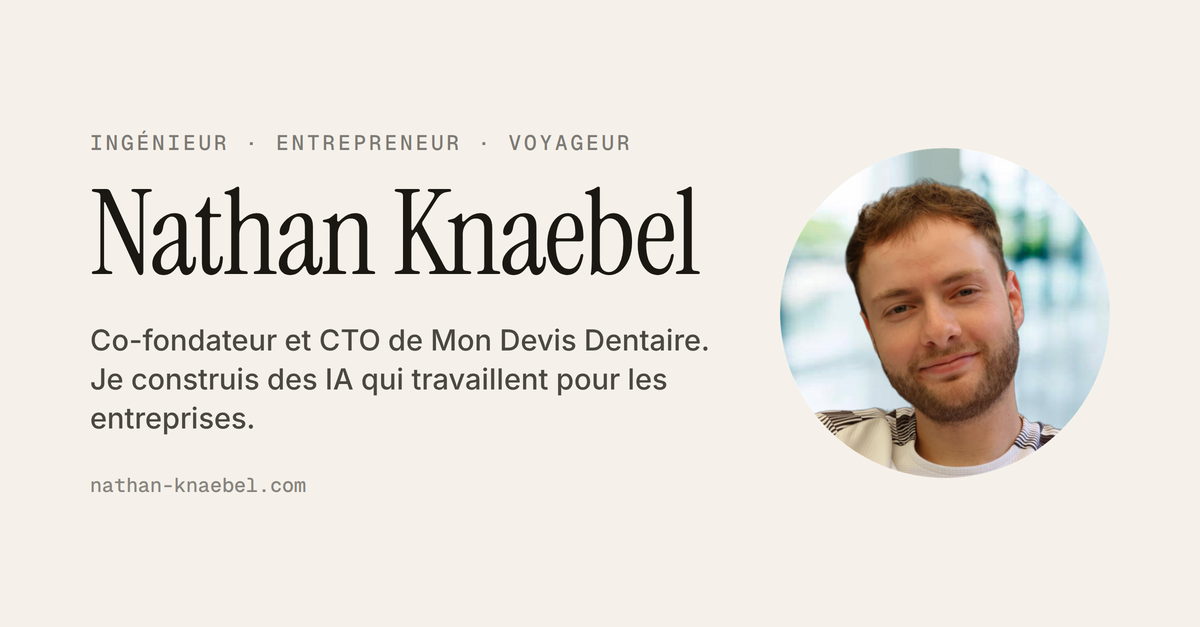
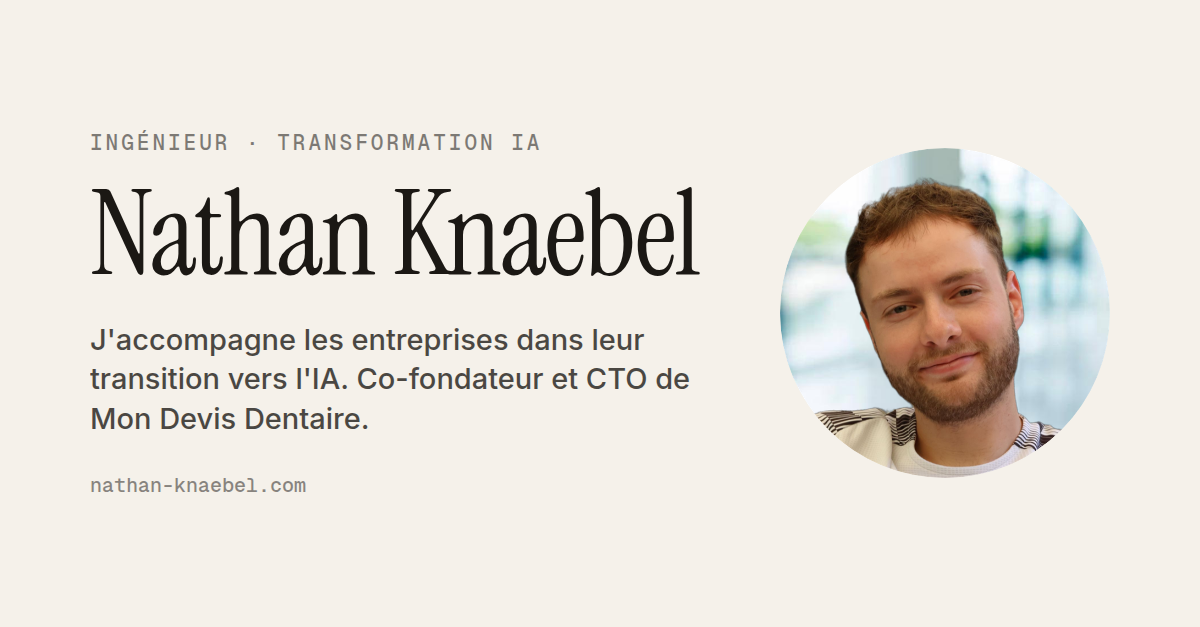
Portfolio : titres et images des articles, blog signé Nathan Knaebel, avis réécrits, nouvelles images Anonymiseur et Courriers, balise meta et aperçu alignés sur l'en-tête

diff --git a/app/blog/page.js b/app/blog/page.js
@@ -9,14 +9,27 @@ import { tousLesArticles, FORMATS, SITE_URL, dateLisible } from "./blog-data";
 // invisible ; un simple `touch` ne suffit pas, il faut changer son contenu).
 const articles = tousLesArticles();
 
+// Le blog est une page du PORTFOLIO (Nathan, 17/11/2026 : « le site d'agents,
+// c'est autre chose ») : signe Nathan Knaebel, jamais « Votre Agent IA ».
+const TITRE = "Articles | Nathan Knaebel";
+const DESCRIPTION =
+  "Les articles de Nathan Knaebel, ingénieur en transformation IA : l'actualité de l'IA, des explications et ce que ses projets lui apprennent.";
+
 export const metadata = {
-  title: "Blog : agents IA et intelligence artificielle au travail",
-  description:
-    "Nathan Knaebel construit des agents IA pour des petites entreprises et raconte ici ce que ce travail lui apprend, des bases aux cas concrets.",
+  title: { absolute: TITRE },
+  description: DESCRIPTION,
   alternates: { canonical: `${SITE_URL}/blog` },
-  // Un index vide est une page maigre : on ne le montre a Google qu'a partir
-  // du premier article publie.
   robots: { index: articles.length > 0, follow: true },
+  // Un openGraph declare remplace en bloc celui du layout : tout se redonne.
+  openGraph: {
+    title: TITRE,
+    description: DESCRIPTION,
+    url: `${SITE_URL}/blog`,
+    siteName: "Nathan Knaebel",
+    locale: "fr_FR",
+    type: "website",
+    images: [{ url: "/images/partage-accueil.png", width: 1200, height: 627, alt: TITRE }],
+  },
 };
 
 // Une carte par article : le visuel en haut (l'accroche), puis format, date,
@@ -74,8 +87,8 @@ export default function BlogPage() {
         <div className="max-w-3xl">
           <h1 className="font-display text-3xl md:text-4xl font-bold">Mes articles</h1>
           <p className="mt-4 text-[17px] leading-relaxed text-black/70">
-            Je construis des agents IA pour des petites entreprises et j&apos;écris ici ce que ce
-            travail m&apos;apprend. Des explications, quelques tutoriels et mon avis sur l&apos;actualité
+            J&apos;accompagne les entreprises dans leur transition vers l&apos;IA et j&apos;écris ici ce
+            que ce travail m&apos;apprend. Des explications, quelques tutoriels et mon avis sur l&apos;actualité
             quand elle vaut qu&apos;on s&apos;y arrête.
           </p>
         </div>

diff --git a/app/page.js b/app/page.js
@@ -7,15 +7,15 @@ const SITE_URL = "https://nathan-knaebel.com";
 
 const META = {
   fr: {
-    titre: "Nathan Knaebel : ingénieur, CTO et concepteur d'IA",
+    titre: "Nathan Knaebel : ingénieur en transformation IA",
     description:
-      "Ingénieur, co-fondateur et CTO de Mon Devis Dentaire, je conçois des IA pour les entreprises. Mes produits et mes projets : SaaS, agents IA, jeux, outils métier.",
+      "J'accompagne les entreprises dans leur transition vers l'IA. Je les conseille puis je construis sur mesure les systèmes qui les rendent plus productives.",
     locale: "fr_FR",
   },
   en: {
-    titre: "Nathan Knaebel: engineer, CTO and AI builder",
+    titre: "Nathan Knaebel: AI transformation engineer",
     description:
-      "Engineer, co-founder and CTO of Mon Devis Dentaire, I build AI for businesses. My products and projects: SaaS, AI agents, games, business tools.",
+      "I help companies move to AI. I advise them, then build the custom systems that make them more productive.",
     locale: "en_US",
   },
 };
@@ -85,8 +85,8 @@ function buildJsonLd(lang) {
         url: SITE_URL,
         image: `${SITE_URL}/images/profile-pic.png`,
         jobTitle: en
-          ? "Co-founder and CTO of Mon Devis Dentaire, AI agent builder"
-          : "Co-fondateur et CTO de Mon Devis Dentaire, concepteur d'agents IA",
+          ? "AI transformation engineer, co-founder and CTO of Mon Devis Dentaire"
+          : "Ingénieur en transformation IA, co-fondateur et CTO de Mon Devis Dentaire",
         alumniOf: { "@type": "CollegeOrUniversity", name: en ? "CESI Engineering School" : "École d'ingénieurs CESI" },
         sameAs: [
           "https://github.com/kurlyto",

diff --git a/app/blog/[slug]/page.js b/app/blog/[slug]/page.js
@@ -30,7 +30,8 @@ export async function generateMetadata({ params }) {
   if (!a) return {};
   const url = `${SITE_URL}/blog/${slug}`;
   return {
-    title: a.titre,
+    // Le blog appartient au portfolio : signe Nathan Knaebel (17/11/2026).
+    title: { absolute: `${a.titre} | Nathan Knaebel` },
     description: a.description,
     alternates: { canonical: url },
     robots: { index: a.statut === "publie", follow: true },
@@ -38,6 +39,7 @@ export async function generateMetadata({ params }) {
       title: a.titre,
       description: a.description,
       url,
+      siteName: "Nathan Knaebel",
       type: "article",
       locale: "fr_FR",
       publishedTime: a.date,
@@ -48,14 +50,14 @@ export async function generateMetadata({ params }) {
           ? { url: `${SITE_URL}${a.imagePartage}`, width: 1200, height: 627, alt: a.titre }
           : a.image
             ? { url: `${SITE_URL}${a.image}`, alt: a.imageAlt }
-            : { url: `${SITE_URL}/images/partage-agence.png`, width: 1200, height: 627, alt: a.titre },
+            : { url: `${SITE_URL}/images/partage-accueil.png`, width: 1200, height: 627, alt: a.titre },
       ],
     },
     twitter: {
       card: "summary_large_image",
       title: a.titre,
       description: a.description,
-      images: [`${SITE_URL}${a.imagePartage || a.image || "/images/partage-agence.png"}`],
+      images: [`${SITE_URL}${a.imagePartage || a.image || "/images/partage-accueil.png"}`],
     },
   };
 }

diff --git a/app/component/Testimonials.js b/app/component/Testimonials.js
@@ -11,6 +11,27 @@ import Reveal from "./Reveal";
 // `logo: true` : l'image est montree entiere sur fond blanc au lieu d'etre
 // rognee comme un visage.
 export const TESTIMONIALS = [
+  // Baptiste et Jerome : textes ecrits avec Nathan le 17/11/2026, a faire
+  // valider par eux avant toute mise en ligne.
+  {
+    quote:
+      "Nathan a compris le métier du booking dès notre premier rendez-vous. On échange facilement avec lui et il revient à chaque fois avec quelque chose de concret à tester.",
+    name: "Baptiste W.",
+    jobTitle: "Agence BB.Booking",
+    useCase: "Prospection de lieux pour ses artistes",
+    initials: "BW",
+    photo: "/testimonials/bb-booking-logo.png",
+    logo: true,
+  },
+  {
+    quote:
+      "Nathan est venu voir comment on travaille à l'étude avant de nous proposer quoi que ce soit. Il est sérieux et je peux l'appeler dès que j'ai une question.",
+    name: "Jérôme K.",
+    jobTitle: "Notaire",
+    useCase: "Anonymisation et courriers de succession",
+    initials: "JK",
+    photo: null,
+  },
   {
     quote:
       "Mes mails de prospection partent tout seuls chaque matin vers les organisateurs d'événements. Je ne cherche plus mes dates et elles arrivent quand même.",

diff --git a/app/component/ProjectCards.js b/app/component/ProjectCards.js
@@ -164,7 +164,7 @@ export const PROJECTS = [
     cover: "from-slate-700 to-slate-800",
     // Faux document d'essai (aucune vraie donnee d'etude), original derriere,
     // version anonymisee devant. Fabrique le 16/11/2026.
-    coverImage: "/images/cover-anonymiseur.jpg",
+    coverImage: "/images/cover-anonymiseur-v2.jpg",
     coverImageFit: "fill",
     tech: [
       { icon: TypeScriptIcon, label: "TypeScript" },
@@ -180,7 +180,7 @@ export const PROJECTS = [
     cover: "from-amber-600 to-orange-900",
     // Ecran des modeles de courrier (generique) : JAMAIS un ecran qui situe l'etude
     // (lieux, correspondants locaux), demande de Nathan du 05/10/2026.
-    coverImage: "/images/cover-succession-modeles.jpg",
+    coverImage: "/images/cover-succession-courriers-v2.jpg",
     tech: [
       { icon: NextJsIcon, label: "Next.js" },
       { icon: TypeScriptIcon, label: "TypeScript" },

diff --git a/app/component/TemoignagesPortfolio.js b/app/component/TemoignagesPortfolio.js
@@ -16,7 +16,7 @@ export default function TemoignagesPortfolio({ lang = "fr" }) {
           {TITRE[lang] || TITRE.fr}
         </h2>
 
-        <div className="-mx-6 mt-12 flex snap-x snap-mandatory gap-4 overflow-x-auto px-6 pb-6 [scrollbar-width:none] [&::-webkit-scrollbar]:hidden md:mx-0 md:grid md:grid-cols-2 md:gap-5 md:overflow-visible md:px-0 lg:grid-cols-4">
+        <div className="-mx-6 mt-12 flex snap-x snap-mandatory gap-4 overflow-x-auto px-6 pb-6 [scrollbar-width:none] [&::-webkit-scrollbar]:hidden md:mx-0 md:grid md:grid-cols-2 md:gap-5 md:overflow-visible md:px-0 lg:grid-cols-3">
           {TESTIMONIALS.map((item) => (
             <figure
               key={item.name}

diff --git a/content/blog/nouveautes-ia-septembre-2026.md b/content/blog/nouveautes-ia-septembre-2026.md
@@ -1,12 +1,12 @@
 ---
-titre: "Les nouveautés de l'IA en septembre 2026"
+titre: "Septembre 2026 : quatre grandes IA sorties en trois jours"
 description: "Quatre grands modèles sont sortis en trois jours ce mois-ci. Je fais le tri et je vous explique ce que j'ai changé chez moi."
 date: 2026-10-05
 format: actualite
 grappe: actus
 mot_cle: "actualite ia"
-image_carte: "/images/blog/cartes/nouveautes-ia-septembre-2026-logos.webp"
-image_partage: "/images/blog/partage-nouveautes-ia-septembre-2026.png"
+image_carte: "/blog/nouveautes-ia-septembre-2026/couverture-v2.png"
+image_partage: "/blog/nouveautes-ia-septembre-2026/couverture-v2.png"
 statut: publie
 ---
 En septembre 2026, quatre grands modèles d'IA sont sortis en trois jours et un cinquième a fait le tour des réseaux avec des vidéos entièrement écrites en code. Le patron d'Anthropic a aussi demandé à toute l'industrie de ralentir. Microsoft et Salesforce ont de leur côté commencé à vendre des agents qui travaillent pendant que vous dormez. Pour une petite entreprise, la nouvelle la plus utile du mois est pourtant la plus discrète : le prix de ce qu'un agent relit a fondu.

diff --git a/content/blog/gpt-6-1-terra-prix-divise-par-deux-agent-ordinateur.md b/content/blog/gpt-6-1-terra-prix-divise-par-deux-agent-ordinateur.md
@@ -1,12 +1,12 @@
 ---
-titre: "GPT-6.1 Terra : l'agent d'OpenAI qui clique à votre place, à moitié prix"
+titre: "J'ai testé GPT-6.1 Terra qui clique à votre place pour moitié prix"
 description: "OpenAI a sorti fin octobre un modèle qui regarde l'écran et clique à votre place pour deux fois moins cher. Je l'ai comparé à Claude sur mes propres formulaires et je vous dis s'il vaut le détour."
 date: 2026-11-14
 format: actualite
 grappe: actus
 mot_cle: "GPT-6.1 Terra avis prix"
-image_carte: "/images/blog/cartes/gpt-6-1-terra-prix-divise-par-deux-agent-ordinateur-fenetre.webp"
-image_partage: "/images/blog/partage-gpt-6-1-terra-prix-divise-par-deux-agent-ordinateur-fenetre.png"
+image_carte: "/blog/gpt-6-1-terra-prix-divise-par-deux-agent-ordinateur/couverture-v2.png"
+image_partage: "/blog/gpt-6-1-terra-prix-divise-par-deux-agent-ordinateur/couverture-v2.png"
 statut: publie
 mots_cles: ["GPT-6.1 Terra", "OpenAI", "ChatGPT Work", "computer use", "prix API", "agent IA"]
 lire_aussi: ["/blog/nouveautes-ia-septembre-2026", "/blog/jev-typesafe-ia-qui-decide", "/"]

diff --git a/content/blog/mistral-large-4-modele-ouvert-telechargeable.md b/content/blog/mistral-large-4-modele-ouvert-telechargeable.md
@@ -1,12 +1,12 @@
 ---
-titre: "Mistral Large 4 : un modèle d'un trillion de paramètres que tout le monde pourra télécharger"
+titre: "Mistral Large 4 a tenté de s'évader et vous pourrez le télécharger"
 description: "Mistral a présenté le 6 octobre un modèle géant que chacun pourra bientôt copier chez soi. J'explique ce que ça change pour une petite entreprise et pourquoi mes agents restent sur Claude pour l'instant."
 date: 2026-10-29
 format: actualite
 grappe: actus
 mot_cle: "mistral large 4"
-image_carte: "/images/blog/cartes/mistral-large-4-modele-ouvert-telechargeable-capture.webp"
-image_partage: "/images/blog/partage-mistral-large-4-modele-ouvert-telechargeable.jpg"
+image_carte: "/blog/mistral-large-4-modele-ouvert-telechargeable/couverture-v2.png"
+image_partage: "/blog/mistral-large-4-modele-ouvert-telechargeable/couverture-v2.png"
 statut: publie
 mots_cles: ["Mistral Large 4", "Le Chonk", "modèle open weight", "IA européenne", "Mistral AI", "IA souveraine"]
 lire_aussi: ["/blog/quel-outil-ia-entreprise-comparatif", "/metiers/kine", "/"]

diff --git a/content/blog/quel-outil-ia-entreprise-comparatif.md b/content/blog/quel-outil-ia-entreprise-comparatif.md
@@ -1,14 +1,14 @@
 ---
-titre: "Quel outil d'IA pour mon entreprise ? Comparatif 2026"
+titre: "Claude ou ChatGPT pour votre boîte : j'ai noté 15 outils d'IA"
 description: "Claude, ChatGPT, n8n, Limova ou un agent sur mesure ? Les outils d'IA se ressemblent tous en vitrine. J'ai relevé leurs prix publics et je les ai notés sur les mêmes critères pour vous aider à trouver le vôtre."
 date: 2026-09-20
 maj: 2026-09-23
 format: comparatif
 grappe: agents
 mot_cle: "quel outil ia pour mon entreprise"
-image_carte: "/images/blog/cartes/quel-outil-ia-entreprise-comparatif-schema.webp"
+image_carte: "/blog/quel-outil-ia-entreprise-comparatif/couverture-v2.png"
 statut: publie
-image_partage: "/images/blog/partage-quel-outil-ia-entreprise-comparatif.png"
+image_partage: "/blog/quel-outil-ia-entreprise-comparatif/couverture-v2.png"
 mots_cles: ["comparatif IA", "outil IA entreprise", "Claude", "ChatGPT Work", "Dust", "Limova", "agent IA sur mesure"]
 lire_aussi: ["/blog/agent-ia-definition", "/foxy", "/agents"]
 ---

diff --git a/content/blog/opus-5-5-videos-jeux-en-code.md b/content/blog/opus-5-5-videos-jeux-en-code.md
@@ -1,12 +1,12 @@
 ---
-titre: "Opus 5.5 : des vidéos et des jeux entièrement écrits en code"
+titre: "Claude a codé un Minecraft en moins de deux heures"
 description: "Depuis le 22 septembre les réseaux débordent de vidéos et de jeux faits avec Opus 5.5. J'ai ouvert le code d'un Minecraft qu'il a écrit pour vous montrer comment c'est fabriqué et je l'ai testé sur une vraie vidéo de présentation."
 date: 2026-10-25
 format: actualite
 grappe: actus
 mot_cle: "claude opus 5.5"
-image_carte: "/images/blog/cartes/opus-5-5-videos-jeux-en-code-minecraft.webp"
-image_partage: "/images/blog/partage-opus-5-5-videos-jeux-en-code.jpg"
+image_carte: "/blog/opus-5-5-videos-jeux-en-code/couverture-v2.png"
+image_partage: "/blog/opus-5-5-videos-jeux-en-code/couverture-v2.png"
 statut: publie
 mots_cles: ["Claude Opus 5.5", "motion design IA", "vidéo en code", "HyperFrames", "jeu vidéo IA", "Anthropic"]
 lire_aussi: ["/blog/nouveautes-ia-septembre-2026", "/blog/quel-outil-ia-entreprise-comparatif", "/"]

diff --git a/content/blog/jev-typesafe-ia-qui-decide.md b/content/blog/jev-typesafe-ia-qui-decide.md
@@ -1,13 +1,13 @@
 ---
-titre: "Jev de TypeSafe : l'IA qui décide au lieu d'écrire"
+titre: "Jev est l'IA qui n'écrit rien et ne peut pas se tromper d'un zéro"
 description: "Jev a fait parler tout le monde cette semaine : un modèle qui ne rédige rien et se contente de trancher. Je l'ai testé sur de vraies annonces immobilières et je vous donne un premier avis dessus."
 date: 2026-09-23
 format: explicatif
 grappe: agents
 mot_cle: "typesafe ai"
-image_carte: "/images/blog/cartes/jev-typesafe-ia-qui-decide-schema.webp"
+image_carte: "/blog/jev-typesafe-ia-qui-decide/couverture-v2.jpg"
 statut: publie
-image_partage: "/images/blog/partage-jev-typesafe-ia-qui-decide.png"
+image_partage: "/blog/jev-typesafe-ia-qui-decide/couverture-v2.jpg"
 mots_cles: ["TypeSafe", "Jev", "modèle de décision", "probabilité calibrée", "extraction de données", "agent IA"]
 lire_aussi: ["/blog/agent-ia-definition", "/blog/quel-outil-ia-entreprise-comparatif", "/agents"]
 ---
